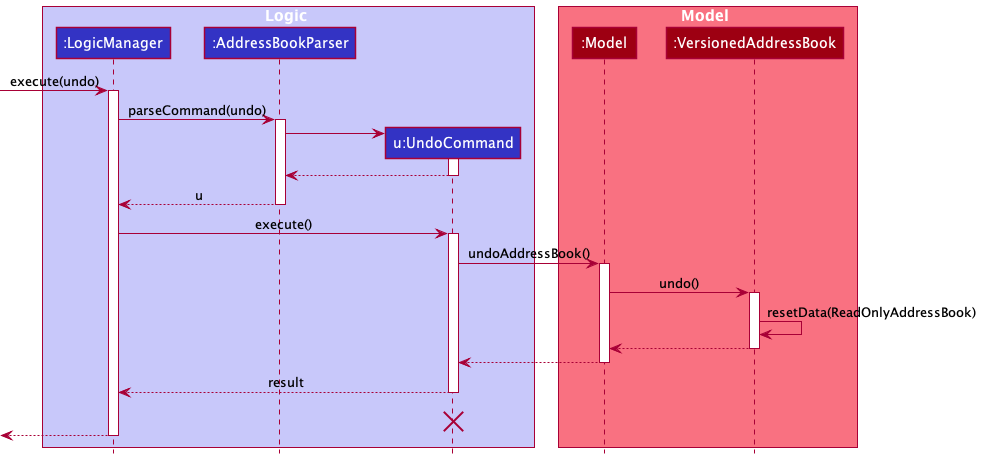
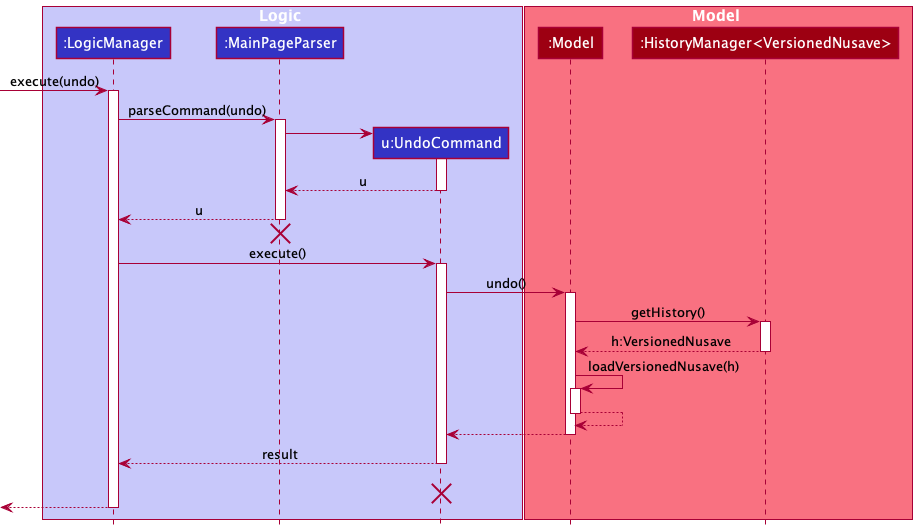
Add undo sequence diagram

Changed region(s): [[0.0, 0.0, 1.0, 1.0], [0.1832, 0.3965, 0.2443, 0.4575]]

diff --git a/docs/DeveloperGuide.md b/docs/DeveloperGuide.md
@@ -815,11 +815,11 @@ Step 1: The user launches NUSave. `HistoryManager<VersionedNusave>` is instantia
 
 ![Undo redo object diagram for step 1](diagrams/UndoRedoState0.png)
 
-Step 2: The user makes changes to NUSave data by creating a `Budget` named "demo". A `VersionedNusave` is instantiated with a deep copy of the `BudgetList` from `Nusave` and `BudgetIndex` from `State` before the change is made. `HistoryManager<VersionedNusave>` adds this `VersionedNusave` to the doubly linked list before moving its pointer forward.
+Step 2: The user makes changes to NUSave data by creating a `Budget` named "demo". Before the change is made, a `VersionedNusave` is instantiated in case the user wants to undo. `HistoryManager<VersionedNusave>` adds this `VersionedNusave` to the doubly linked list.
 
 ![Undo redo object diagram for step 2](diagrams/UndoRedoState1.png)
 
-Step 3: The user executes the undo command. A `VersionedNusave` is instantiated with a deep copy of the current `BudgetList` from `Nusave` and `BudgetIndex` from `State`. `HistoryManager<VersionedNusave>` adds this `VersionedNusave` to the doubly linked list before moving its pointer backward to retrieve the previous `VersionedNusave`. The `BudgetList` from the previous `VersionedNusave` is loaded into `Nusave` while the `BudgetIndex` from the previous `VersionedNusave` is used to set `State`. Once this is done, the GUI should reflect that the "demo" budget is removed from NUSave.
+Step 3: The user executes the undo command. Before reverting the changes, a `VersionedNusave` is instantiated in case the user wants to redo. `HistoryManager<VersionedNusave>` adds this `VersionedNusave` to the doubly linked list before moving its pointer backward to retrieve the previous `VersionedNusave`. The `BudgetList` from the previous `VersionedNusave` is loaded into `Nusave` while the `BudgetIndex` from the previous `VersionedNusave` is used to set `State`. Once this is done, the GUI should reflect that the "demo" budget is removed from NUSave.
 
 ![Undo redo object diagram for step 3](diagrams/UndoRedoState2.png)
 
@@ -827,7 +827,7 @@ Step 4: The user executes the redo command. `HistoryManager<VersionedNusave>` re
 
 ![Undo redo object diagram for step 4](diagrams/UndoRedoState3.png)
 
-Step 5: The user makes changes to NUSave data by creating a `Budget` named "demo2". A `VersionedNusave` is instantiated with a deep copy of the `BudgetList` from `Nusave` and `BudgetIndex` from `State` before the change is made. `HistoryManager<VersionedNusave>` adds this `VersionedNusave` to the doubly linked list before moving its pointer forward.
+Step 5: The user makes changes to NUSave data by creating a `Budget` named "demo2". Before the change is made, a `VersionedNusave` is instantiated in case the user wants to undo. `HistoryManager<VersionedNusave>` adds this `VersionedNusave` to the doubly linked list before moving its pointer forward.
 
 ![Undo redo object diagram for step 5](diagrams/UndoRedoState4.png)
 
